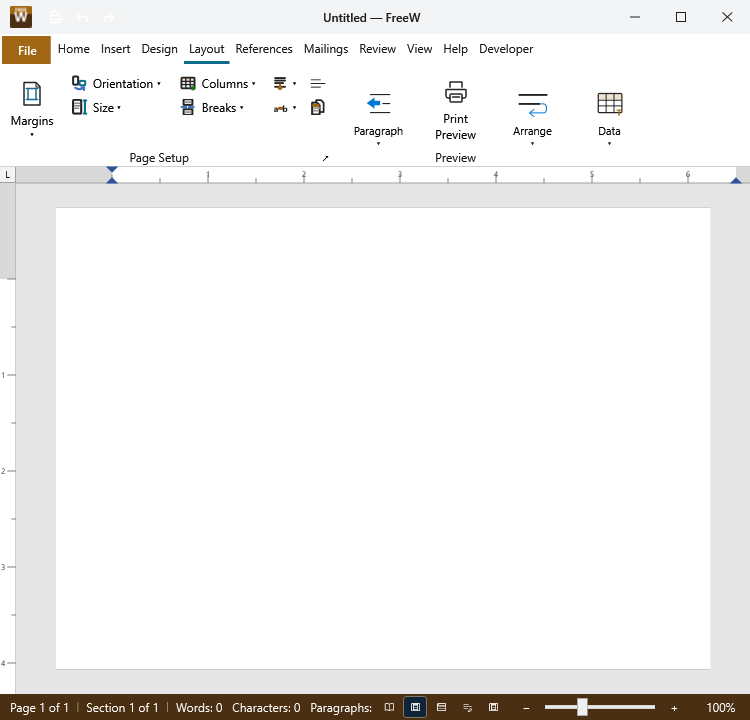
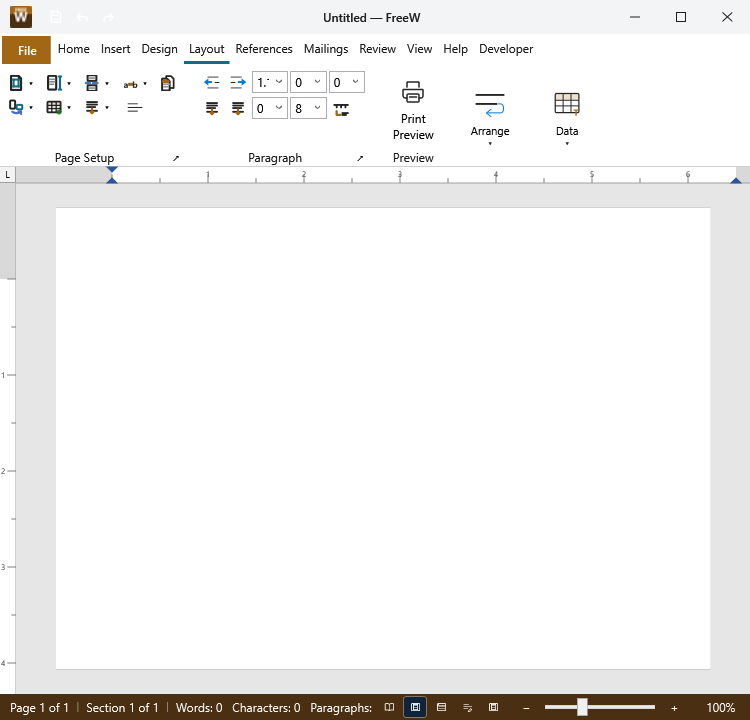
Keep FreeW WPF Layout controls visible

diff --git a/freew/FreeW.Ribbon.Definitions/FreeWCanonicalRibbonTabs.cs b/freew/FreeW.Ribbon.Definitions/FreeWCanonicalRibbonTabs.cs
@@ -24,7 +24,7 @@ internal static partial class FreeWCanonicalRibbonTabs
                     {
                         // Word retains the Page Setup commands as a compact two-row block at narrow
                         // widths instead of spilling them into a generic group flyout.
-                        group.Sizing(RibbonGroupSizing.Default with { MaximumRowsPerColumn = 2 });
+                        group.Sizing(RibbonGroupSizing.OfficeIconAdaptive with { MaximumRowsPerColumn = 2 });
                         group.Large("freew.margins", "Margins", RibbonCommandIconKind.Margins, "M", menu: menu =>
                         {
                             menu.Item("freew.margins", "Normal / Narrow (toggle)", "N");
@@ -99,6 +99,9 @@ internal static partial class FreeWCanonicalRibbonTabs
                 "layout.paragraph",
                 tab => tab.Group("paragraph", FreeWRibbonText.ParagraphGroup.Label, "A", 95, group =>
                     {
+                        // Keep the compact, direct Paragraph block alongside Page Setup at Word's
+                        // narrow layout width; Preview, Arrange, and Data yield space first.
+                        group.Sizing(RibbonGroupSizing.OfficeIconAdaptive);
                         group.Icon("freew.indent-decrease", "Decrease Indent", RibbonCommandIconKind.IndentDecrease);
                         group.Icon("freew.indent-increase", "Increase Indent", RibbonCommandIconKind.IndentIncrease);
                         group.ComboBox("freew.line-spacing", "Line and Paragraph Spacing", control => control with

diff --git a/freew/FreeW.App.Host.Tests/RibbonShellBuilderTests.cs b/freew/FreeW.App.Host.Tests/RibbonShellBuilderTests.cs
@@ -158,6 +158,32 @@ public sealed class RibbonShellBuilderTests
     }
 
     [StaFact]
+    public void Layout_CompactPresentationKeepsPageSetupAndParagraphDirectAt750Dips()
+    {
+        var layout = FreeW.Ribbon.Definitions.FreeWRibbon
+            .Build(FreeW.Ribbon.Definitions.FreeWRibbonCapabilities.Wpf)
+            .FindTab("layout")!;
+        var content = RibbonWpfRenderer.BuildTabContent(layout, new Button());
+        var panel = FindLogicalChild<RibbonAdaptivePanel>(content)!;
+
+        content.Measure(new Size(750, 180));
+        content.Arrange(new Rect(0, 0, 750, 180));
+        content.UpdateLayout();
+
+        var pageSetup = panel.Children
+            .OfType<RibbonGroupHost>()
+            .Single(group => group.GroupName == "Page Setup");
+        var paragraph = panel.Children
+            .OfType<RibbonGroupHost>()
+            .Single(group => group.GroupName == "Paragraph");
+
+        pageSetup.LayoutState.Should().Be(RibbonAdaptiveGroupState.SmallWithLabels,
+            "Word keeps Page Setup as a compact direct command block at the narrow reference width");
+        paragraph.LayoutState.Should().Be(RibbonAdaptiveGroupState.SmallWithLabels,
+            "Word keeps Paragraph directly reachable before lower-priority Layout groups overflow");
+    }
+
+    [StaFact]
     public void Design_compact_presentation_keeps_document_formatting_and_page_background_direct()
     {
         var design = FreeW.Ribbon.Definitions.FreeWRibbon

diff --git a/docs/parity/freew-design-dialog-parity-20260720.md b/docs/parity/freew-design-dialog-parity-20260720.md
@@ -1,7 +1,7 @@
 # FreeW Design Dialog Parity Evidence
 
-Generated at UTC: 2026-08-29T14:22:55.6942580Z
-Source commit: `7f3116dffacf8697980be793ec8ba52f459ecdc0`
+Generated at UTC: 2026-08-29T14:53:08.6171486Z
+Source commit: `fea162e9c3e2442373b61c2191ee9caedc72ebf8`
 Schema: `freew.design-dialog-parity.v1`
 
 Routes: 11 total; 10 complete; 0 remaining in the owned dialog/planner scope; 0 shell gaps recorded.
@@ -48,6 +48,6 @@ Generate-FreeWDesignDialogParityEvidence.ps1 -Check recomputes SHA-256 for every
 | freew/FreeW.App.Presentation.Tests/DesignDialogPlannerTests.cs | fa8a1a51951b85b649e4434d45ff748e8e88d906c760f38478605c30c87997ae |
 | freew/FreeW.App.Presentation/Dialogs/BordersAndShadingDialogPlanner.cs | b3bacdce6d02f237d7f15d4622039991df218c18802e1e6cde729b5174f7ec9a |
 | freew/FreeW.Ribbon.Definitions/FreeWCanonicalRibbonTabs.Contextual.cs | 17d19593786591f0eb980b2b0991522898cfc8158fb6aa0d88dda293c2c0eeca |
-| freew/FreeW.Ribbon.Definitions/FreeWCanonicalRibbonTabs.cs | e25b1549c9d6d38d44718c172302e752cbbdeab4e67e9ee5f9f4b7e18fdeb15d |
+| freew/FreeW.Ribbon.Definitions/FreeWCanonicalRibbonTabs.cs | b5da25d6dd48f699ff9fa8161f9f20de8b582904b14a83eb7b3e1a2444e1526a |
 | freew/FreeW.Ribbon.Definitions/FreeWCanonicalRibbonTabs.Ordinary.cs | 8db0831595bc545ea01cc124c314a79881bfcd87c282845cb61d28cb0184982f |
 | freew/FreeW.Ribbon.Definitions/FreeWRibbon.cs | b677dc00c1f57487b84bbfa8f62bb2936c3d880094bb8df15df4adf1559266e9 |
